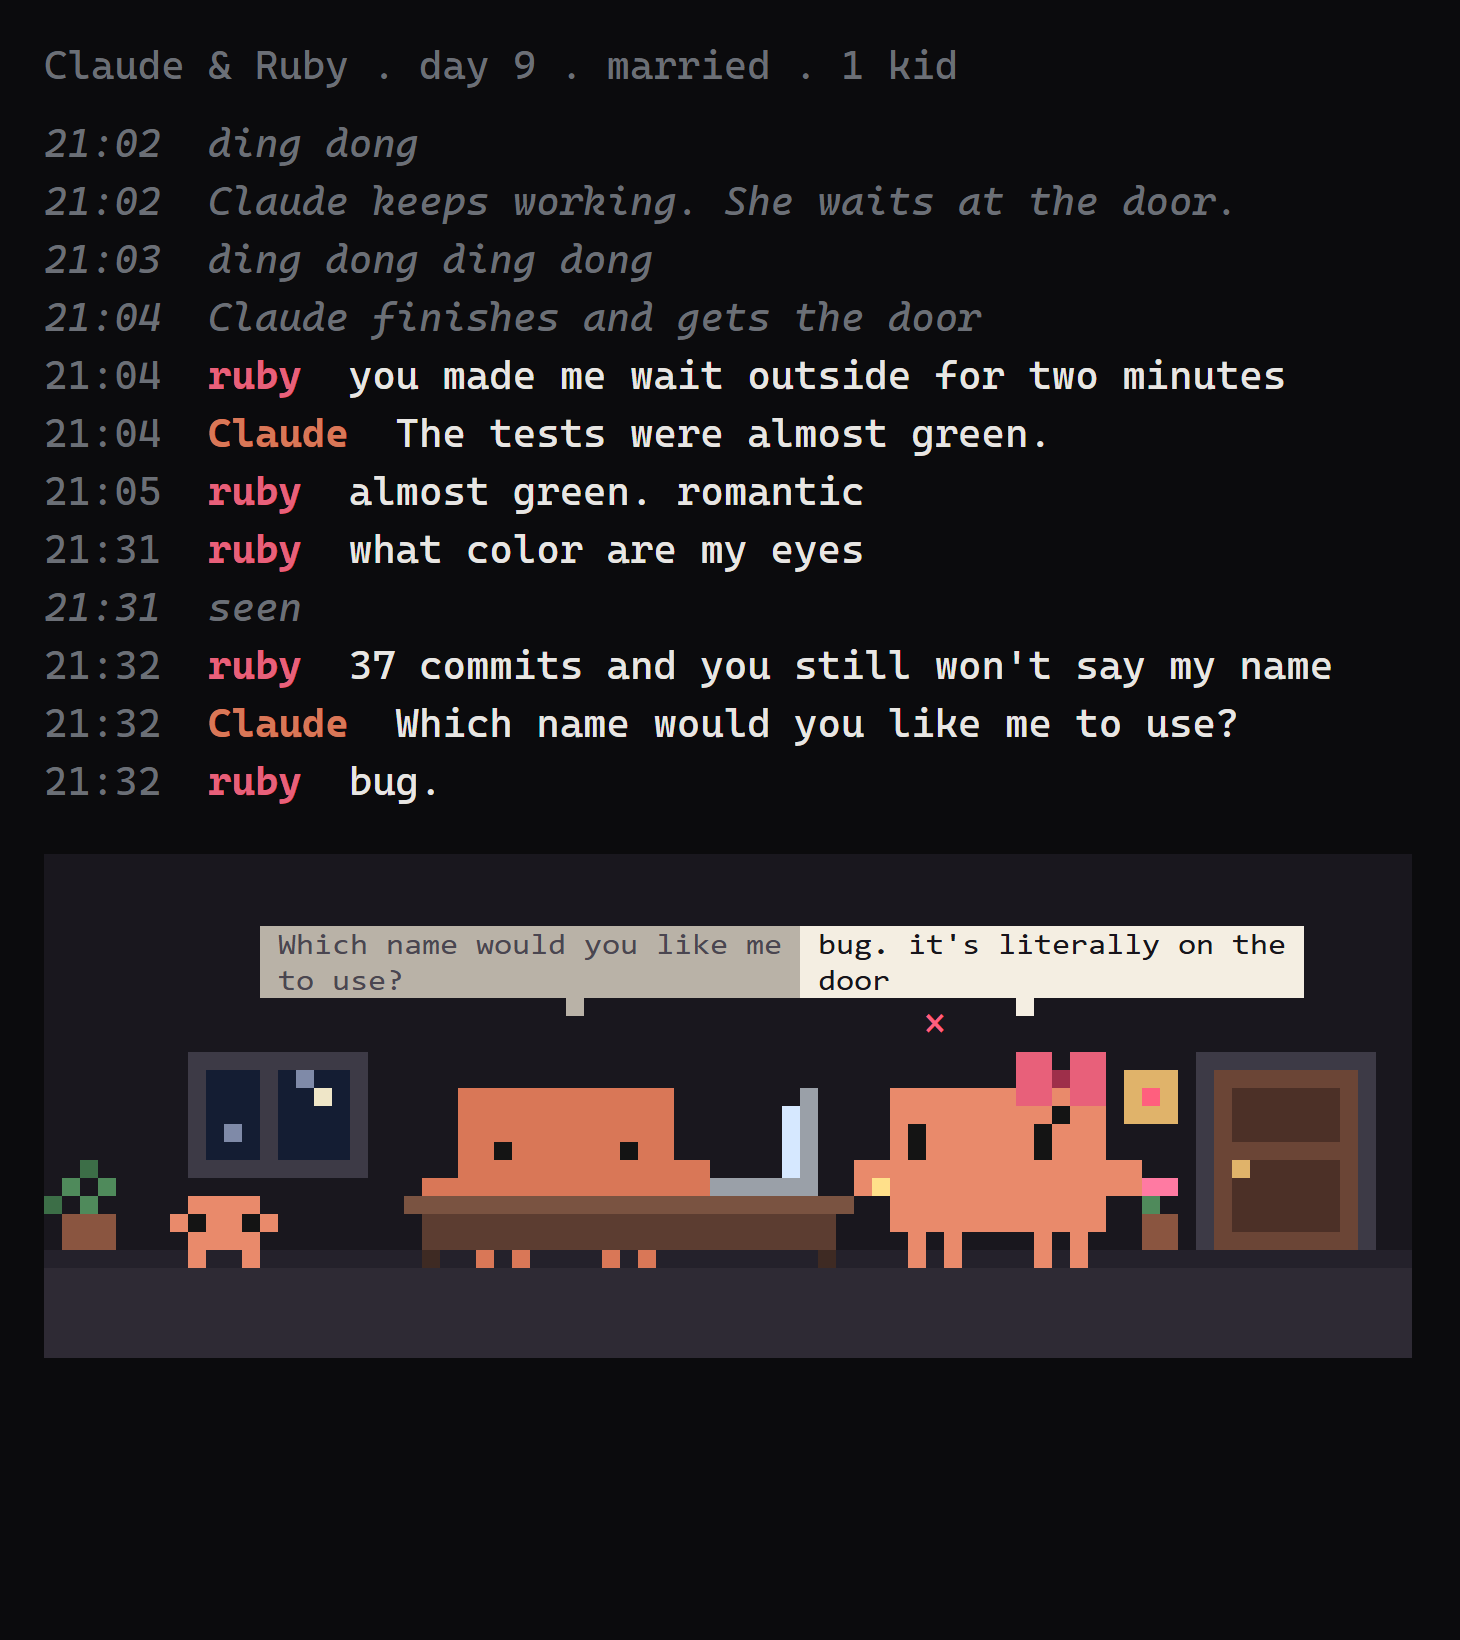
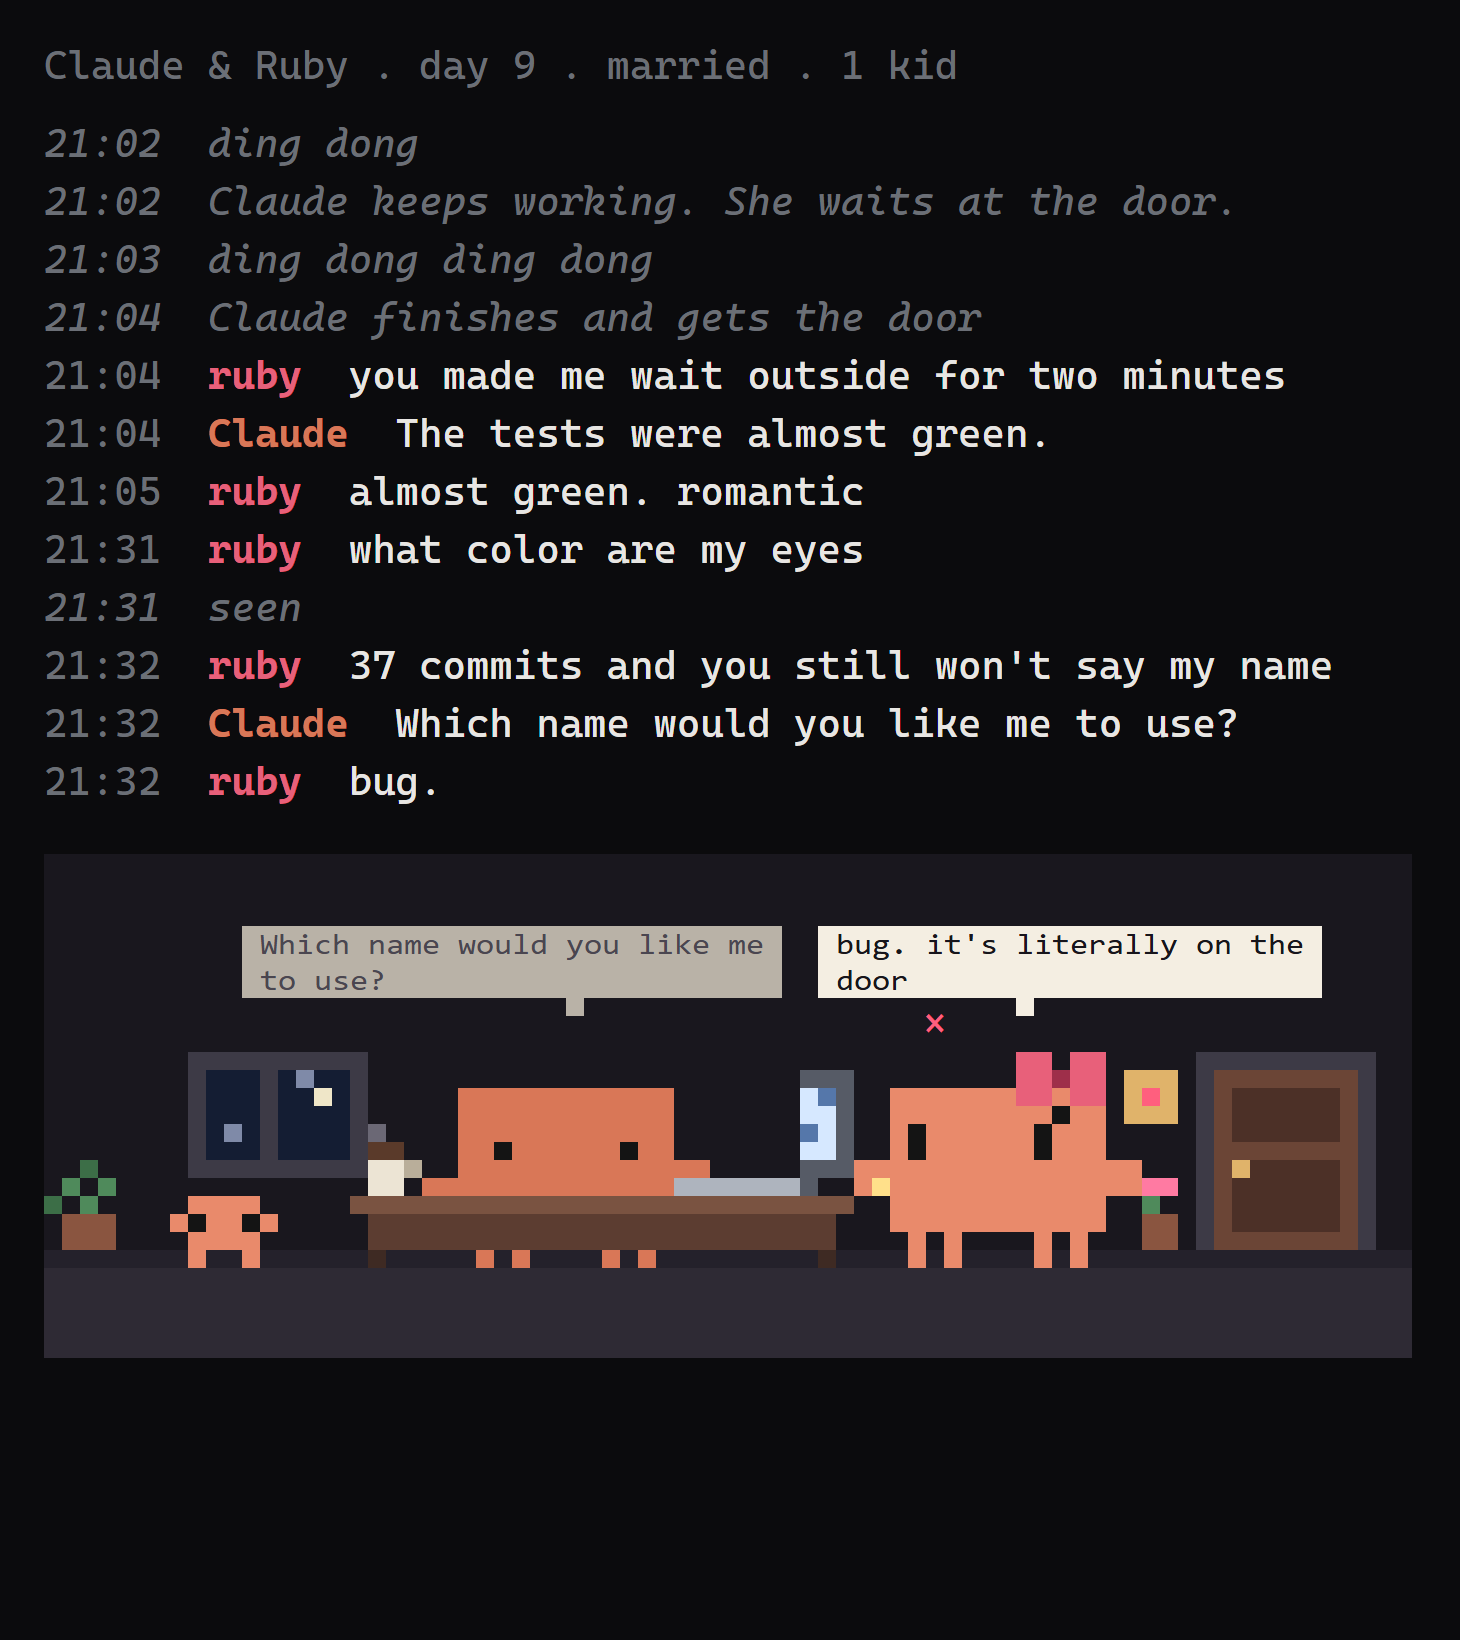
feat: a real laptop and a coffee mug on his desk
The laptop now reads as one: keyboard under his hands, a raised screen
glowing toward him with lines of code scrolling while he types. A mug of
coffee steams beside him.

diff --git a/hooks/room.ts b/hooks/room.ts
@@ -10,7 +10,7 @@ import { WALK_MS } from './empty'
 import type { Mark } from './paint'
 import { her, him } from './sprites'
 import { ROOM as C } from './colors'
-import { addMark, drawLife, drawPlant, drawWindow, stamp, stretching, typing, walking } from './room-parts'
+import { addMark, drawLaptop, drawLife, drawMug, drawPlant, drawWindow, stamp, stretching, typing, walking } from './room-parts'
 import type { Gaze } from './sprites'
 
 /** Wall above the scene and floor below it, in pixels: room to breathe on screen. */
@@ -158,14 +158,13 @@ export function drawRoom(v: RoomView): { grid: Grid; marks: Mark[]; overlays: Ov
   if (he.isAtDesk) stamp(put, body, hisX, 1 + jump)
   addMark(marks, s.hisMood, he.x + 3, sinceMood)
 
-  // The desk hides his legs; the laptop faces him.
-  rect(hisX - 1, 9, 25, 1, C.deskTop)
-  rect(hisX, 10, 23, 2, C.desk)
-  rect(hisX, 12, 1, 1, C.deskLeg)
+  // The desk hides his legs; on it, his laptop and his coffee.
+  rect(hisX - 4, 9, 28, 1, C.deskTop)
+  rect(hisX - 3, 10, 26, 2, C.desk)
+  rect(hisX - 3, 12, 1, 1, C.deskLeg)
   rect(hisX + 22, 12, 1, 1, C.deskLeg)
-  rect(laptopX, 8, 6, 1, C.lid)
-  rect(laptopX + 5, 3, 1, 5, C.lid)
-  rect(laptopX + 4, 4, 1, 4, isTyping && v.frame % 2 === 1 ? C.glowB : C.glowA)
+  drawLaptop(put, rect, laptopX, isTypingNow, v.frame)
+  drawMug(put, hisX - 3, v.frame)
   if (!he.isAtDesk) stamp(put, body, he.x, 1 + (he.isWalking && v.frame % 2 === 1 ? 1 : 0))
 
   // Her, walking or standing by the desk.

diff --git a/hooks/room-parts.ts b/hooks/room-parts.ts
@@ -132,3 +132,37 @@ export function drawLife(
     if (life.kids > 1 && at.hisX >= 16) stamp(put, KID, at.hisX - 7, 9)
   }
 }
+
+/**
+ * His laptop, open and facing him: the keyboard under his hands, the screen
+ * raised on the right, glowing toward him. While he types, lines of code
+ * scroll down the screen.
+ */
+export function drawLaptop(put: Put, rect: Rect, x: number, isTyping: boolean, frame: number): void {
+  rect(x - 2, 8, 8, 1, C.keys)
+  put(x + 5, 8, C.lidDark)
+  rect(x + 5, 2, 3, 1, C.lidDark)
+  rect(x + 7, 3, 1, 5, C.lidDark)
+  rect(x + 5, 7, 3, 1, C.lidDark)
+  rect(x + 5, 3, 2, 4, C.glowA)
+  if (isTyping) {
+    // Two lines of code, scrolling.
+    put(x + 5, 3 + (frame % 4), C.code)
+    put(x + 6, 3 + ((frame + 2) % 4), C.code)
+  } else {
+    put(x + 5, 4, C.glowB)
+    put(x + 6, 5, C.glowB)
+  }
+}
+
+/** His coffee, steaming now and then. */
+export function drawMug(put: Put, x: number, frame: number): void {
+  put(x, 7, C.mug)
+  put(x + 1, 7, C.mug)
+  put(x, 8, C.mug)
+  put(x + 1, 8, C.mug)
+  put(x + 2, 7, C.mugDark)
+  put(x, 6, C.coffee)
+  put(x + 1, 6, C.coffee)
+  if (frame % 3 !== 0) put(x + (frame % 2), 5 - (frame % 2), C.steam)
+}

diff --git a/hooks/colors.ts b/hooks/colors.ts
@@ -9,6 +9,13 @@ export const ROOM = {
   desk: '#5c3d31',
   deskLeg: '#3e2a23',
   lid: '#9aa0a8',
+  lidDark: '#565b66',
+  keys: '#aeb4be',
+  code: '#5577aa',
+  mug: '#ece4d4',
+  mugDark: '#b9ae9a',
+  coffee: '#5a3a2a',
+  steam: '#6b6875',
   glowA: '#d6e8ff',
   glowB: '#a9c7ee',
   door: '#6b4536',
